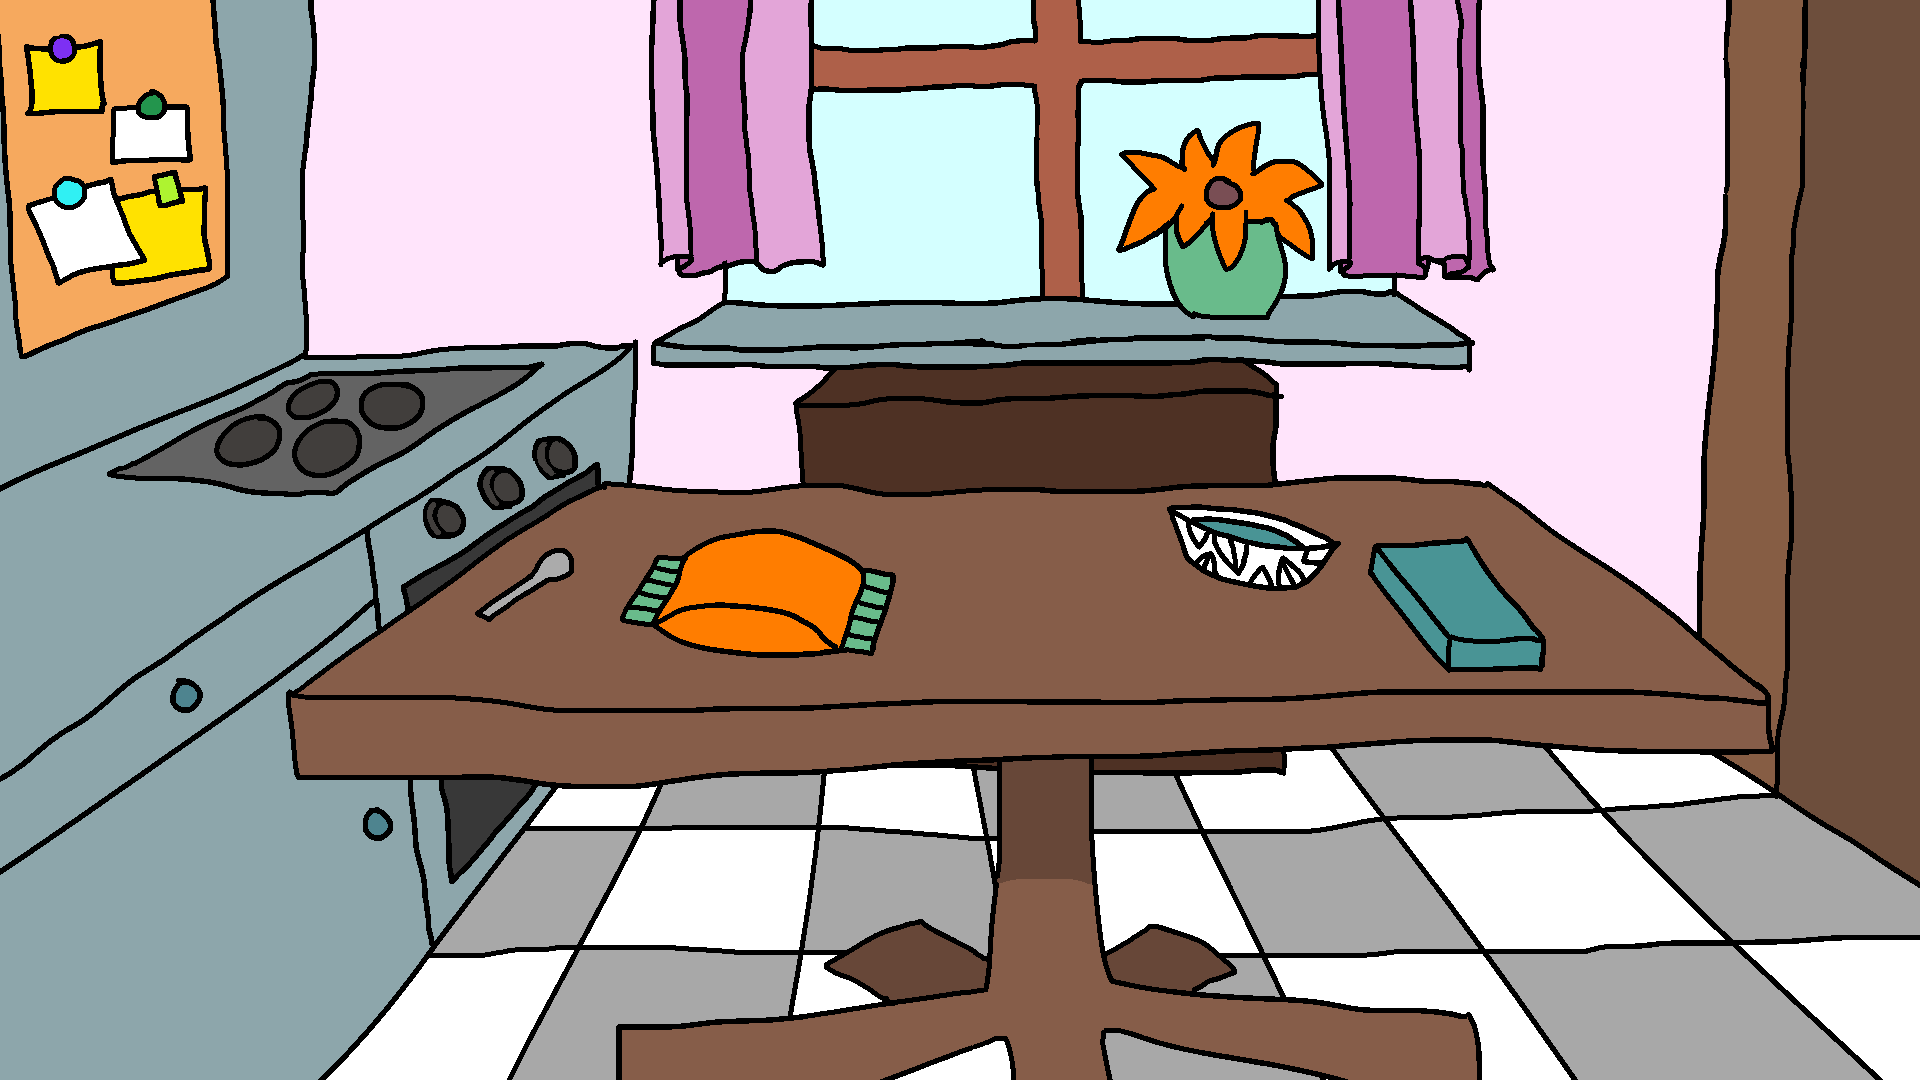
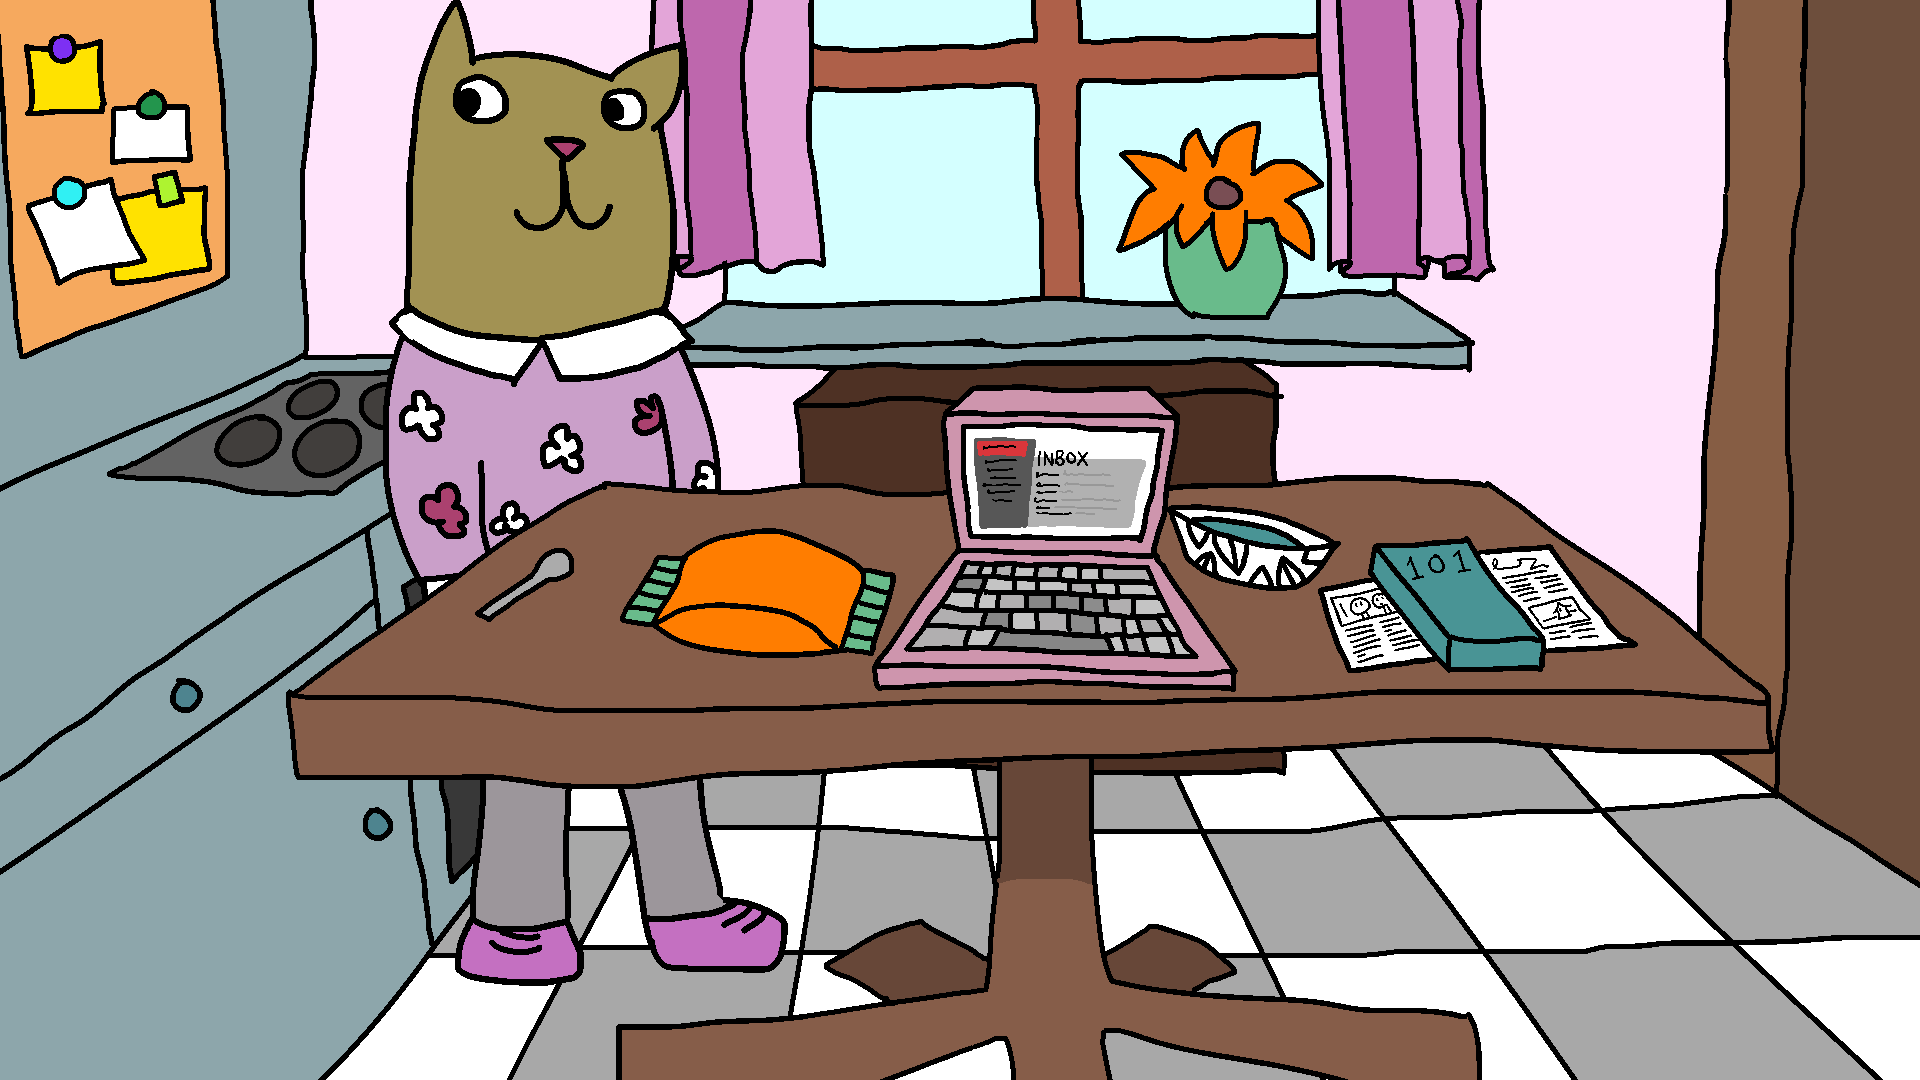
Added Oma Lookhere
Die Aufgabe muss nicht fertig gemacht werden, das ist eigentlich nur noch for fun :)

diff --git a/composeApp/src/commonMain/kotlin/Models/Scripts/Oma/OmaLookHere2.kt b/composeApp/src/commonMain/kotlin/Models/Scripts/Oma/OmaLookHere2.kt
@@ -3,70 +3,77 @@ package Models.Scripts.Oma
 val omaLookHere2 = """
     [
         {
-            "dialogueLine": "Was ist das denn? Ein Magazin?",
+            "dialogueLine": "Oh, eine Zeitung von heute?",
             "speaker": "JUSTIN",
             "speakermood": "NEUTRAL",
             "listener": "NOBODY",
             "listenermood": "NEUTRAL"
         },
         {
-            "dialogueLine": "Das hat Oma wohl kostenlos irgendwo in die Hand bekommen...",
+            "dialogueLine": "Es geht um Phisingmethoden...",
             "speaker": "JUSTIN",
             "speakermood": "NEUTRAL",
             "listener": "NOBODY",
             "listenermood": "NEUTRAL"
         },
         {
-            "dialogueLine": "Hier steht: Achtung vor Spam-Mails!",
+            "dialogueLine": "Also so wie Fishing? Fischen gehen?",
             "speaker": "JUSTIN",
             "speakermood": "NEUTRAL",
             "listener": "NOBODY",
             "listenermood": "NEUTRAL"
         },
         {
-            "dialogueLine": "Als Tipp wird hier die Seite haveibeenpwned.com empfohlen...",
+            "dialogueLine": "Ah... Hier steht dass Phising der Versuch der Beschaffung persönlicher Daten ist.",
             "speaker": "JUSTIN",
             "speakermood": "NEUTRAL",
             "listener": "NOBODY",
             "listenermood": "NEUTRAL"
         },
         {
-            "dialogueLine": "Dort soll man wohl herausfinden können, welche von den eigenen Mails schon in Datenleaks involviert war.",
+            "dialogueLine": "Oft geben sich Täter hier als falsche Personen aus...",
             "speaker": "JUSTIN",
             "speakermood": "NEUTRAL",
             "listener": "NOBODY",
             "listenermood": "NEUTRAL"
         },
         {
-            "dialogueLine": "Was soll den ein Datenleak sein?",
+            "dialogueLine": "zum Beispiel tut man so als wenn man eine Support Mail einer Firma ist.",
             "speaker": "JUSTIN",
             "speakermood": "NEUTRAL",
             "listener": "NOBODY",
             "listenermood": "NEUTRAL"
         },
         {
-            "dialogueLine": "Ah, hier steht es noch einmal...",
+            "dialogueLine": "Also zum Beispiel Amazon oder Google?",
             "speaker": "JUSTIN",
             "speakermood": "NEUTRAL",
             "listener": "NOBODY",
             "listenermood": "NEUTRAL"
         },
         {
-            "dialogueLine": "Manchmal passiert es Firmen, dass private Daten von Nutzern ausversehen an die Öffentlichkeit kommen...",
+            "dialogueLine": "Na das ist ja wirklich einfallsreich...",
             "speaker": "JUSTIN",
             "speakermood": "NEUTRAL",
             "listener": "NOBODY",
             "listenermood": "NEUTRAL"
         },
         {
-            "dialogueLine": "Dann sollte man am Besten seine registrierte Email oder Passwort ändern.",
+            "dialogueLine": "Aber wenn man es schafft dass eine Email offiziell aussieht?",
             "speaker": "JUSTIN",
             "speakermood": "NEUTRAL",
             "listener": "NOBODY",
             "listenermood": "NEUTRAL"
         },
         {
-            "dialogueLine": "Na so was aber auch...",
+            "dialogueLine": "Vielleicht fällt man ja schneller auf so etwas rein als man denken würde...",
+            "speaker": "JUSTIN",
+            "speakermood": "NEUTRAL",
+            "listener": "NOBODY",
+            "listenermood": "NEUTRAL"
+        },
+        {
+            "dialogueLine": "Ich denke man sollte sich also wahrscheinlich den Absender genau ansehen.",
             "speaker": "JUSTIN",
             "speakermood": "NEUTRAL",
             "listener": "NOBODY",

diff --git a/composeApp/src/commonMain/kotlin/Models/Scripts/Oma/OmaLookHere3.kt b/composeApp/src/commonMain/kotlin/Models/Scripts/Oma/OmaLookHere3.kt
@@ -3,77 +3,70 @@ package Models.Scripts.Oma
 val omaLookHere3 = """
     [
         {
-            "dialogueLine": "Oh, eine Zeitung von heute?",
+            "dialogueLine": "Was ist das denn? Ein Magazin?",
             "speaker": "JUSTIN",
             "speakermood": "NEUTRAL",
             "listener": "NOBODY",
             "listenermood": "NEUTRAL"
         },
         {
-            "dialogueLine": "Es geht um Phisingmethoden...",
+            "dialogueLine": "Das hat Oma wohl kostenlos irgendwo in die Hand bekommen...",
             "speaker": "JUSTIN",
             "speakermood": "NEUTRAL",
             "listener": "NOBODY",
             "listenermood": "NEUTRAL"
         },
         {
-            "dialogueLine": "Also so wie Fishing? Fischen gehen?",
+            "dialogueLine": "Hier steht: Achtung vor Spam-Mails!",
             "speaker": "JUSTIN",
             "speakermood": "NEUTRAL",
             "listener": "NOBODY",
             "listenermood": "NEUTRAL"
         },
         {
-            "dialogueLine": "Ah... Hier steht dass Phising der Versuch der Beschaffung persönlicher Daten ist.",
+            "dialogueLine": "Als Tipp wird hier die Seite haveibeenpwned.com empfohlen...",
             "speaker": "JUSTIN",
             "speakermood": "NEUTRAL",
             "listener": "NOBODY",
             "listenermood": "NEUTRAL"
         },
         {
-            "dialogueLine": "Oft geben sich Täter hier als falsche Personen aus...",
+            "dialogueLine": "Dort soll man wohl herausfinden können, welche von den eigenen Mails schon in Datenleaks involviert war.",
             "speaker": "JUSTIN",
             "speakermood": "NEUTRAL",
             "listener": "NOBODY",
             "listenermood": "NEUTRAL"
         },
         {
-            "dialogueLine": "zum Beispiel tut man so als wenn man eine Support Mail einer Firma ist.",
+            "dialogueLine": "Was soll den ein Datenleak sein?",
             "speaker": "JUSTIN",
             "speakermood": "NEUTRAL",
             "listener": "NOBODY",
             "listenermood": "NEUTRAL"
         },
         {
-            "dialogueLine": "Also zum Beispiel Amazon oder Google?",
+            "dialogueLine": "Ah, hier steht es noch einmal...",
             "speaker": "JUSTIN",
             "speakermood": "NEUTRAL",
             "listener": "NOBODY",
             "listenermood": "NEUTRAL"
         },
         {
-            "dialogueLine": "Na das ist ja wirklich einfallsreich...",
+            "dialogueLine": "Manchmal passiert es Firmen, dass private Daten von Nutzern ausversehen an die Öffentlichkeit kommen...",
             "speaker": "JUSTIN",
             "speakermood": "NEUTRAL",
             "listener": "NOBODY",
             "listenermood": "NEUTRAL"
         },
         {
-            "dialogueLine": "Aber wenn man es schafft dass eine Email offiziell aussieht?",
+            "dialogueLine": "Dann sollte man am Besten seine registrierte Email oder Passwort ändern.",
             "speaker": "JUSTIN",
             "speakermood": "NEUTRAL",
             "listener": "NOBODY",
             "listenermood": "NEUTRAL"
         },
         {
-            "dialogueLine": "Vielleicht fällt man ja schneller auf so etwas rein als man denken würde...",
-            "speaker": "JUSTIN",
-            "speakermood": "NEUTRAL",
-            "listener": "NOBODY",
-            "listenermood": "NEUTRAL"
-        },
-        {
-            "dialogueLine": "Ich denke man sollte sich also wahrscheinlich den Absender genau ansehen.",
+            "dialogueLine": "Na so was aber auch...",
             "speaker": "JUSTIN",
             "speakermood": "NEUTRAL",
             "listener": "NOBODY",

diff --git a/composeApp/src/commonMain/kotlin/Views/LevelOverlays/TaskView.kt b/composeApp/src/commonMain/kotlin/Views/LevelOverlays/TaskView.kt
@@ -300,8 +300,21 @@ fun CrosswordTaskView(onMove : () -> Unit, onFinishCorrect : () -> Unit, onFinis
             }
 
             // Hier der Rest
-            Column (modifier = Modifier.fillMaxSize().padding(0.dp, 50.dp, 0.dp, 0.dp).background(Color.LightGray)) {
-                Text("Platzhalter")
+            Column (
+                modifier = Modifier
+                    .fillMaxSize()
+                    .padding(0.dp, 50.dp, 0.dp, 0.dp)
+                    .background(Color.LightGray),
+                verticalArrangement = Arrangement.Center,
+                horizontalAlignment = Alignment.CenterHorizontally
+            ) {
+                Text("Diese Aufgabe ist noch nicht im Prototypen enthalten.")
+                Button({ onFinishCorrect() }){
+                    Text("Richtig beantworten")
+                }
+                Button({ onFinishFalse() }){
+                    Text("Falsch beantworten")
+                }
             }
         }
     }
@@ -327,10 +340,20 @@ fun DownloadsTaskView(onMove : () -> Unit, onFinishCorrect : () -> Unit, onFinis
 
             // Hier der Rest
             Column(
-                modifier = Modifier.fillMaxSize().padding(0.dp, 50.dp, 0.dp, 0.dp)
-                    .background(Color.LightGray)
+                modifier = Modifier
+                    .fillMaxSize()
+                    .padding(0.dp, 50.dp, 0.dp, 0.dp)
+                    .background(Color.LightGray),
+                verticalArrangement = Arrangement.Center,
+                horizontalAlignment = Alignment.CenterHorizontally
             ) {
-                Text("Platzhalter")
+                Text("Diese Aufgabe ist noch nicht im Prototypen enthalten.")
+                Button({ onFinishCorrect() }){
+                    Text("Richtig beantworten")
+                }
+                Button({ onFinishFalse() }){
+                    Text("Falsch beantworten")
+                }
             }
         }
     }

diff --git a/composeApp/src/commonMain/kotlin/LocationHandler.kt b/composeApp/src/commonMain/kotlin/LocationHandler.kt
@@ -69,8 +69,14 @@ enum class Room {
                 LookHere(320.dp, 280.dp, 4),
                 LookHere(300.dp, 100.dp, 5)
             )
-            OMAKUECHE -> listOf()
-            OMAWOHNZIMMER -> listOf()
+            OMAKUECHE -> listOf(
+                LookHere(650.dp, 300.dp, 0),
+                LookHere(300.dp, 140.dp, 1),
+                LookHere(900.dp, 350.dp, 2)
+            )
+            OMAWOHNZIMMER -> listOf(
+                LookHere(900.dp, 250.dp, 3)
+            )
             JUSTINFLUR -> listOf()
             JUSTINKUECHE -> listOf()
             JUSTINZIMMER -> listOf()
